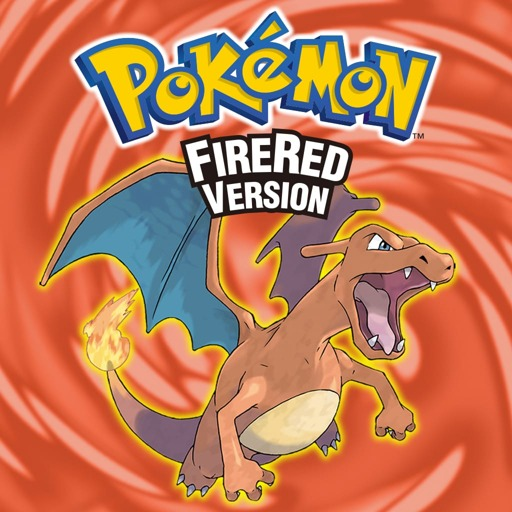
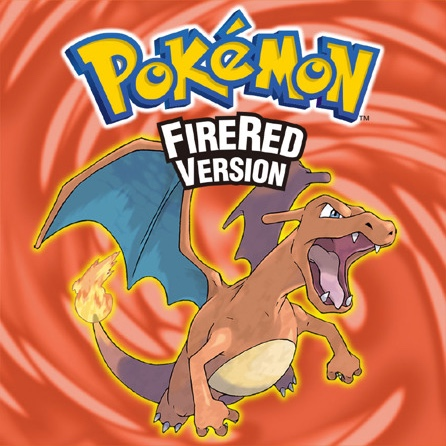
chore(covers): source Switch FRLG art from GameTDB

diff --git a/SOURCES.md b/SOURCES.md
@@ -351,8 +351,8 @@ include those baselines, rather than asserting the species is locally caught.
   - `us.jpg`: https://raw.githubusercontent.com/libretro-thumbnails/Nintendo_-_Nintendo_3DS/master/Named_Boxarts/Pokemon%20Ultra%20Sun%20%28USA%29%20%28En%2CJa%2CFr%2CDe%2CEs%2CIt%2CZh%2CKo%29.png
   - `um.jpg`: https://raw.githubusercontent.com/libretro-thumbnails/Nintendo_-_Nintendo_3DS/master/Named_Boxarts/Pokemon%20Ultra%20Moon%20%28USA%29%20%28En%2CJa%2CFr%2CDe%2CEs%2CIt%2CZh%2CKo%29.png
   - `c.jpg`: https://raw.githubusercontent.com/libretro-thumbnails/Nintendo_-_Game_Boy_Color/master/Named_Boxarts/Pokemon%20-%20Crystal%20Version%20%28USA%29.png
-- FireRed and LeafGreen for Nintendo Switch use the official square eShop
-  artwork, resized to 512px without cropping the listing banner:
+- FireRed and LeafGreen for Nintendo Switch use the square eShop artwork,
+  cropped from GameTDB's digital cover (446px, no resizing):
   - `frs.jpg`: https://art.gametdb.com/switch/coverHQ/US/BPUJB.jpg
   - `lgs.jpg`: https://art.gametdb.com/switch/coverHQ/US/BPUKB.jpg
 
